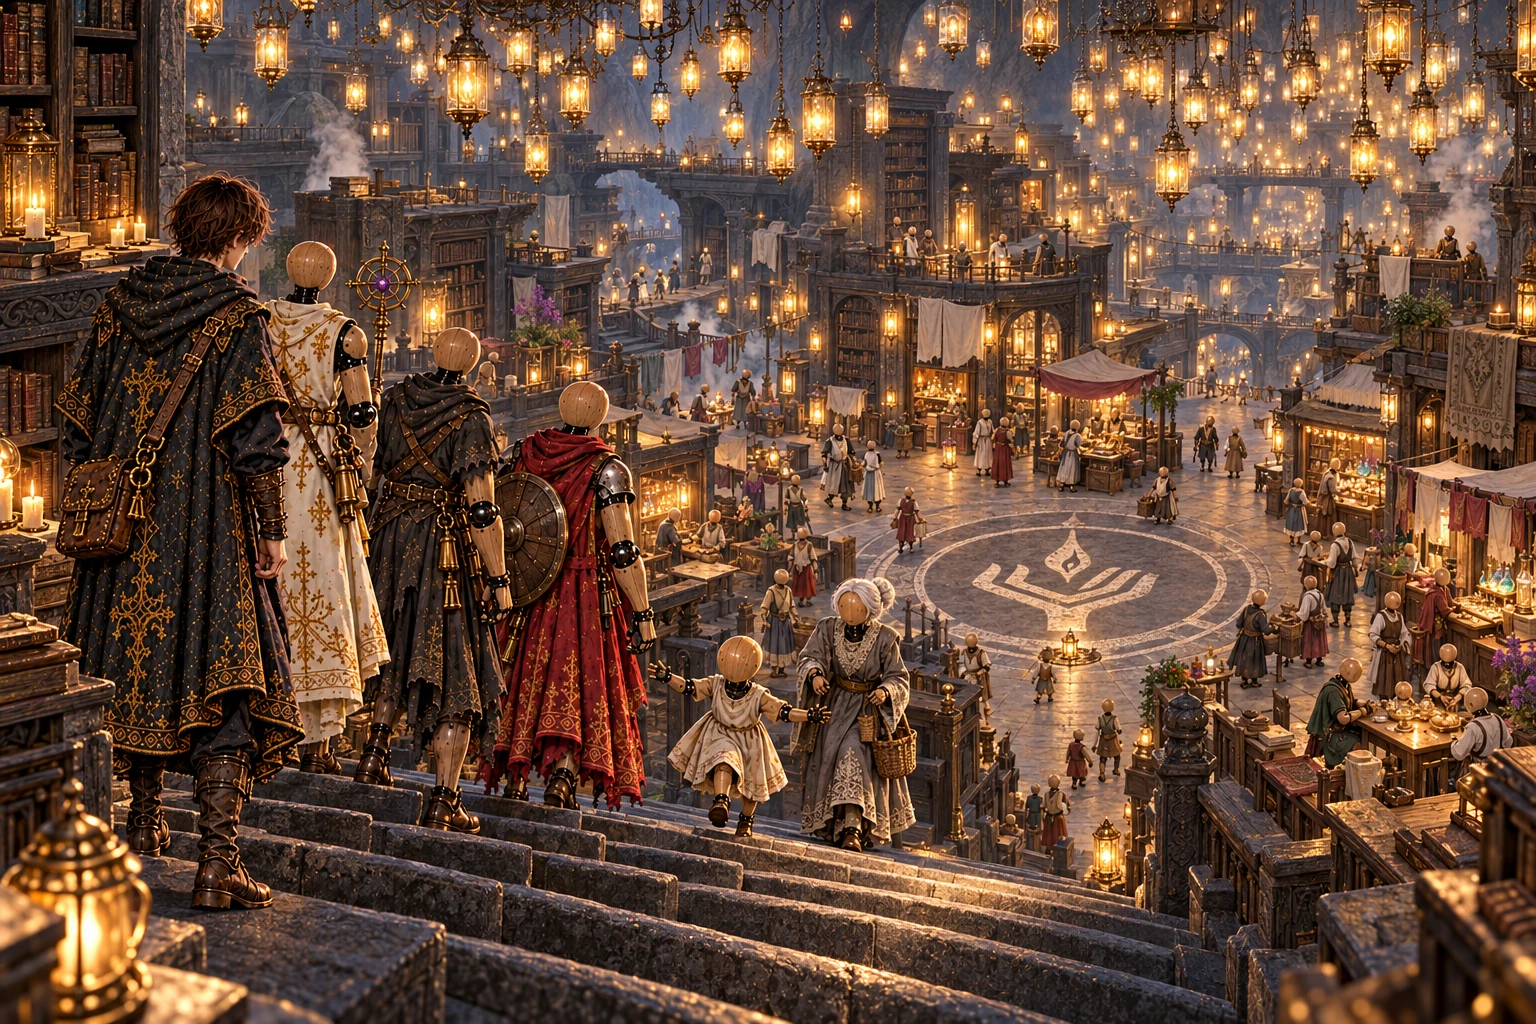
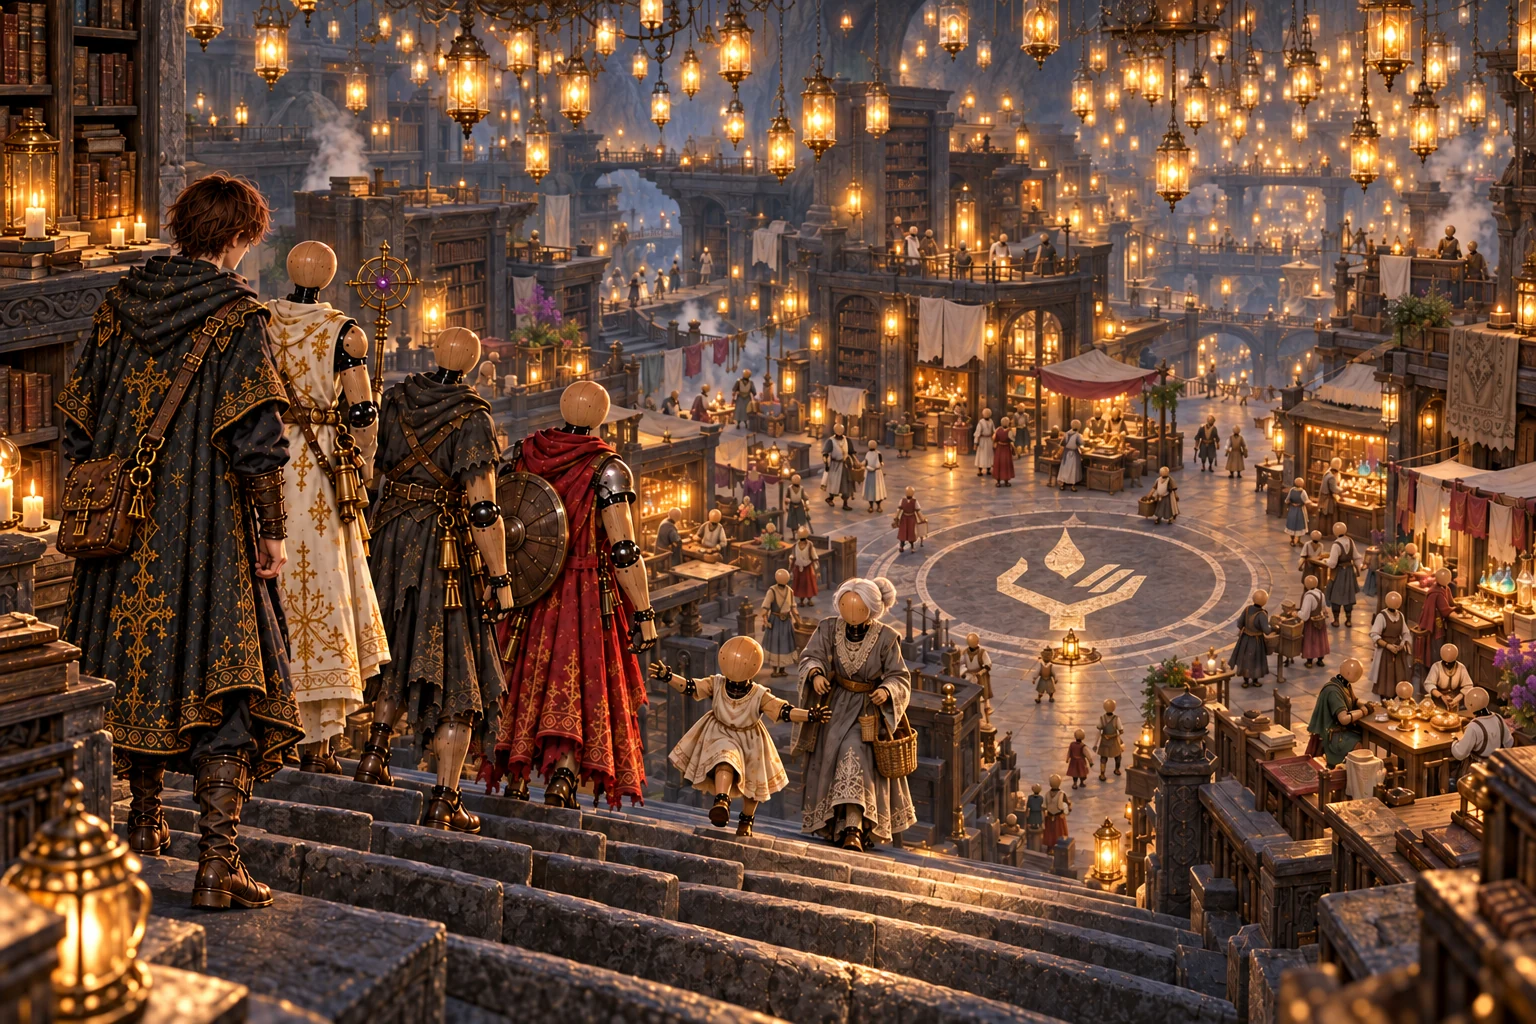
夜明けの町の一門の印を承認済みの幾何学形へ修正

diff --git a/docs/art/codex-story-art-brief.md b/docs/art/codex-story-art-brief.md
@@ -517,6 +517,13 @@ Character reference sheet on a plain dark slate-blue background with soft even l
 ...except: remove ONLY the decorative gold emblems/branch-like motif from the FRONT of the detached wooden torso at the right foreground. Restore smooth natural wood grain matching the surrounding torso. Do not add a crest anywhere else. Preserve the neck opening, shoulders, iron joints, curved wooden torso anatomy, the open chest hatch and cyan light, roots and the whole scene.
 ```
 
+**A-36. 一門の印の局所修正 w42_dawn** `art/story-review/chapter11/w42_dawn.png` (済)
+- 根拠と判定: 広場の白墨の印が杯状の掌と中抜きの炎になっている。承認済み `docs/art/story-refs/sigil.png` の幾何学印へ修正。
+- 保つもの: 白墨の円周・石畳・人物・町・眠り灯・構図・光。印の白墨の質感と床面の遠近を保つ。
+```text
+...except: replace ONLY the incorrect chalk hand-and-flame crest inside the town square circle with the approved geometric crest in docs/art/story-refs/sigil.png, supplied as the second reference. Use its exact silhouette: an angular cupped palm, ONE thumb projection on the LEFT, THREE parallel slanted finger projections on the RIGHT, a short wrist below, and ONE separate solid teardrop flame above. Do not add a fourth finger on the right. Do not use a symmetrical cup, a hollow flame, extra flames, or a realistic hand. Render the approved silhouette in warm off-white chalk on the cobblestones, matching the existing crest's scale and the perspective of the ground plane. Preserve the circular chalk border and every other part of the original image exactly, including all people, buildings, lanterns and lighting.
+```
+
 ### B. 任意 (余力があれば。読者が気づきやすい順)
 
 | 場面 | 直すこと |
